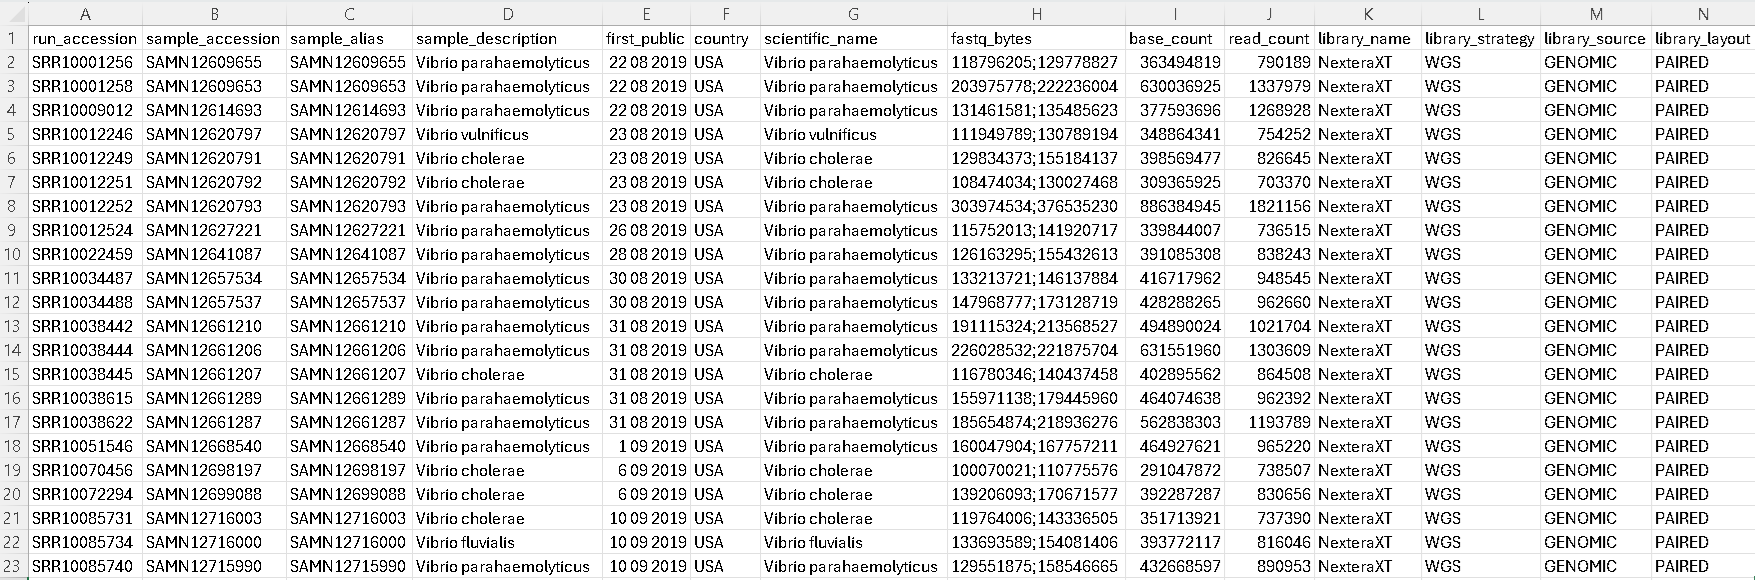
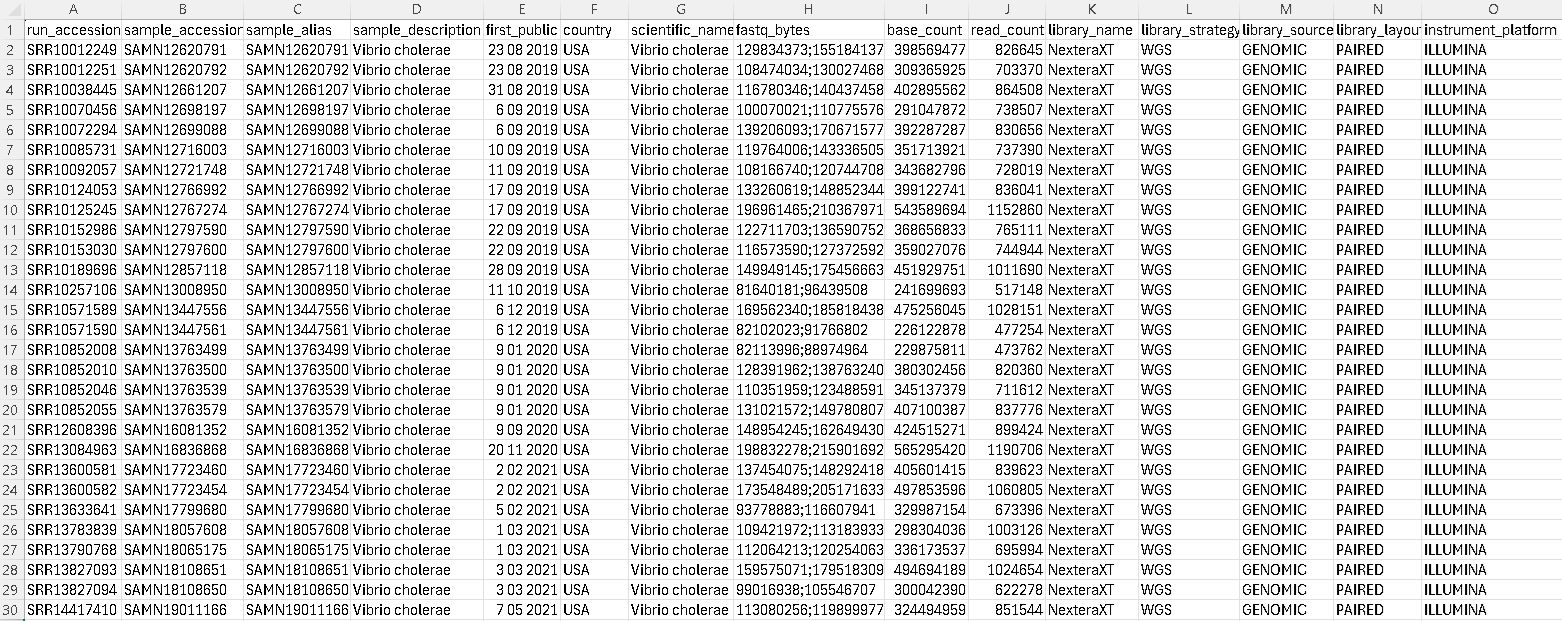
Added discussion of VCF result in IGV

diff --git a/hw12/hw12.md b/hw12/hw12.md
@@ -4,7 +4,7 @@ The reference genome is a Vibrio cholerae whole genome sequence with Accession I
 
 ### Instructions:
 
-Construct the design.csv file as shown below. The SRR's listed are under BioProject PRJNA266293.
+Construct the design.csv file as shown below. The SRR's listed are under BioProject PRJNA266293. I filtered to only get Vibrio cholerae.
 ```
 bio search PRJNA266293 -H --csv > design.csv
 ```
@@ -60,6 +60,8 @@ Open IGV, then load the refs/vibrio.fa genome to IGV.
 Drag and drop merged.vcf.gz to IGV to see the merged variant calls. We should see something like shown below:
 
 ![](images/vcf.png)
+
+Here we see several variant calls among SRR's of Vibrio cholerae against the RefSeq reference of the same species. Perhaps, we need to filter out variant calls with low quality score or depth, to capture more significant variants and remove noise.
 
 Please clean files at the end of the run
 ```
